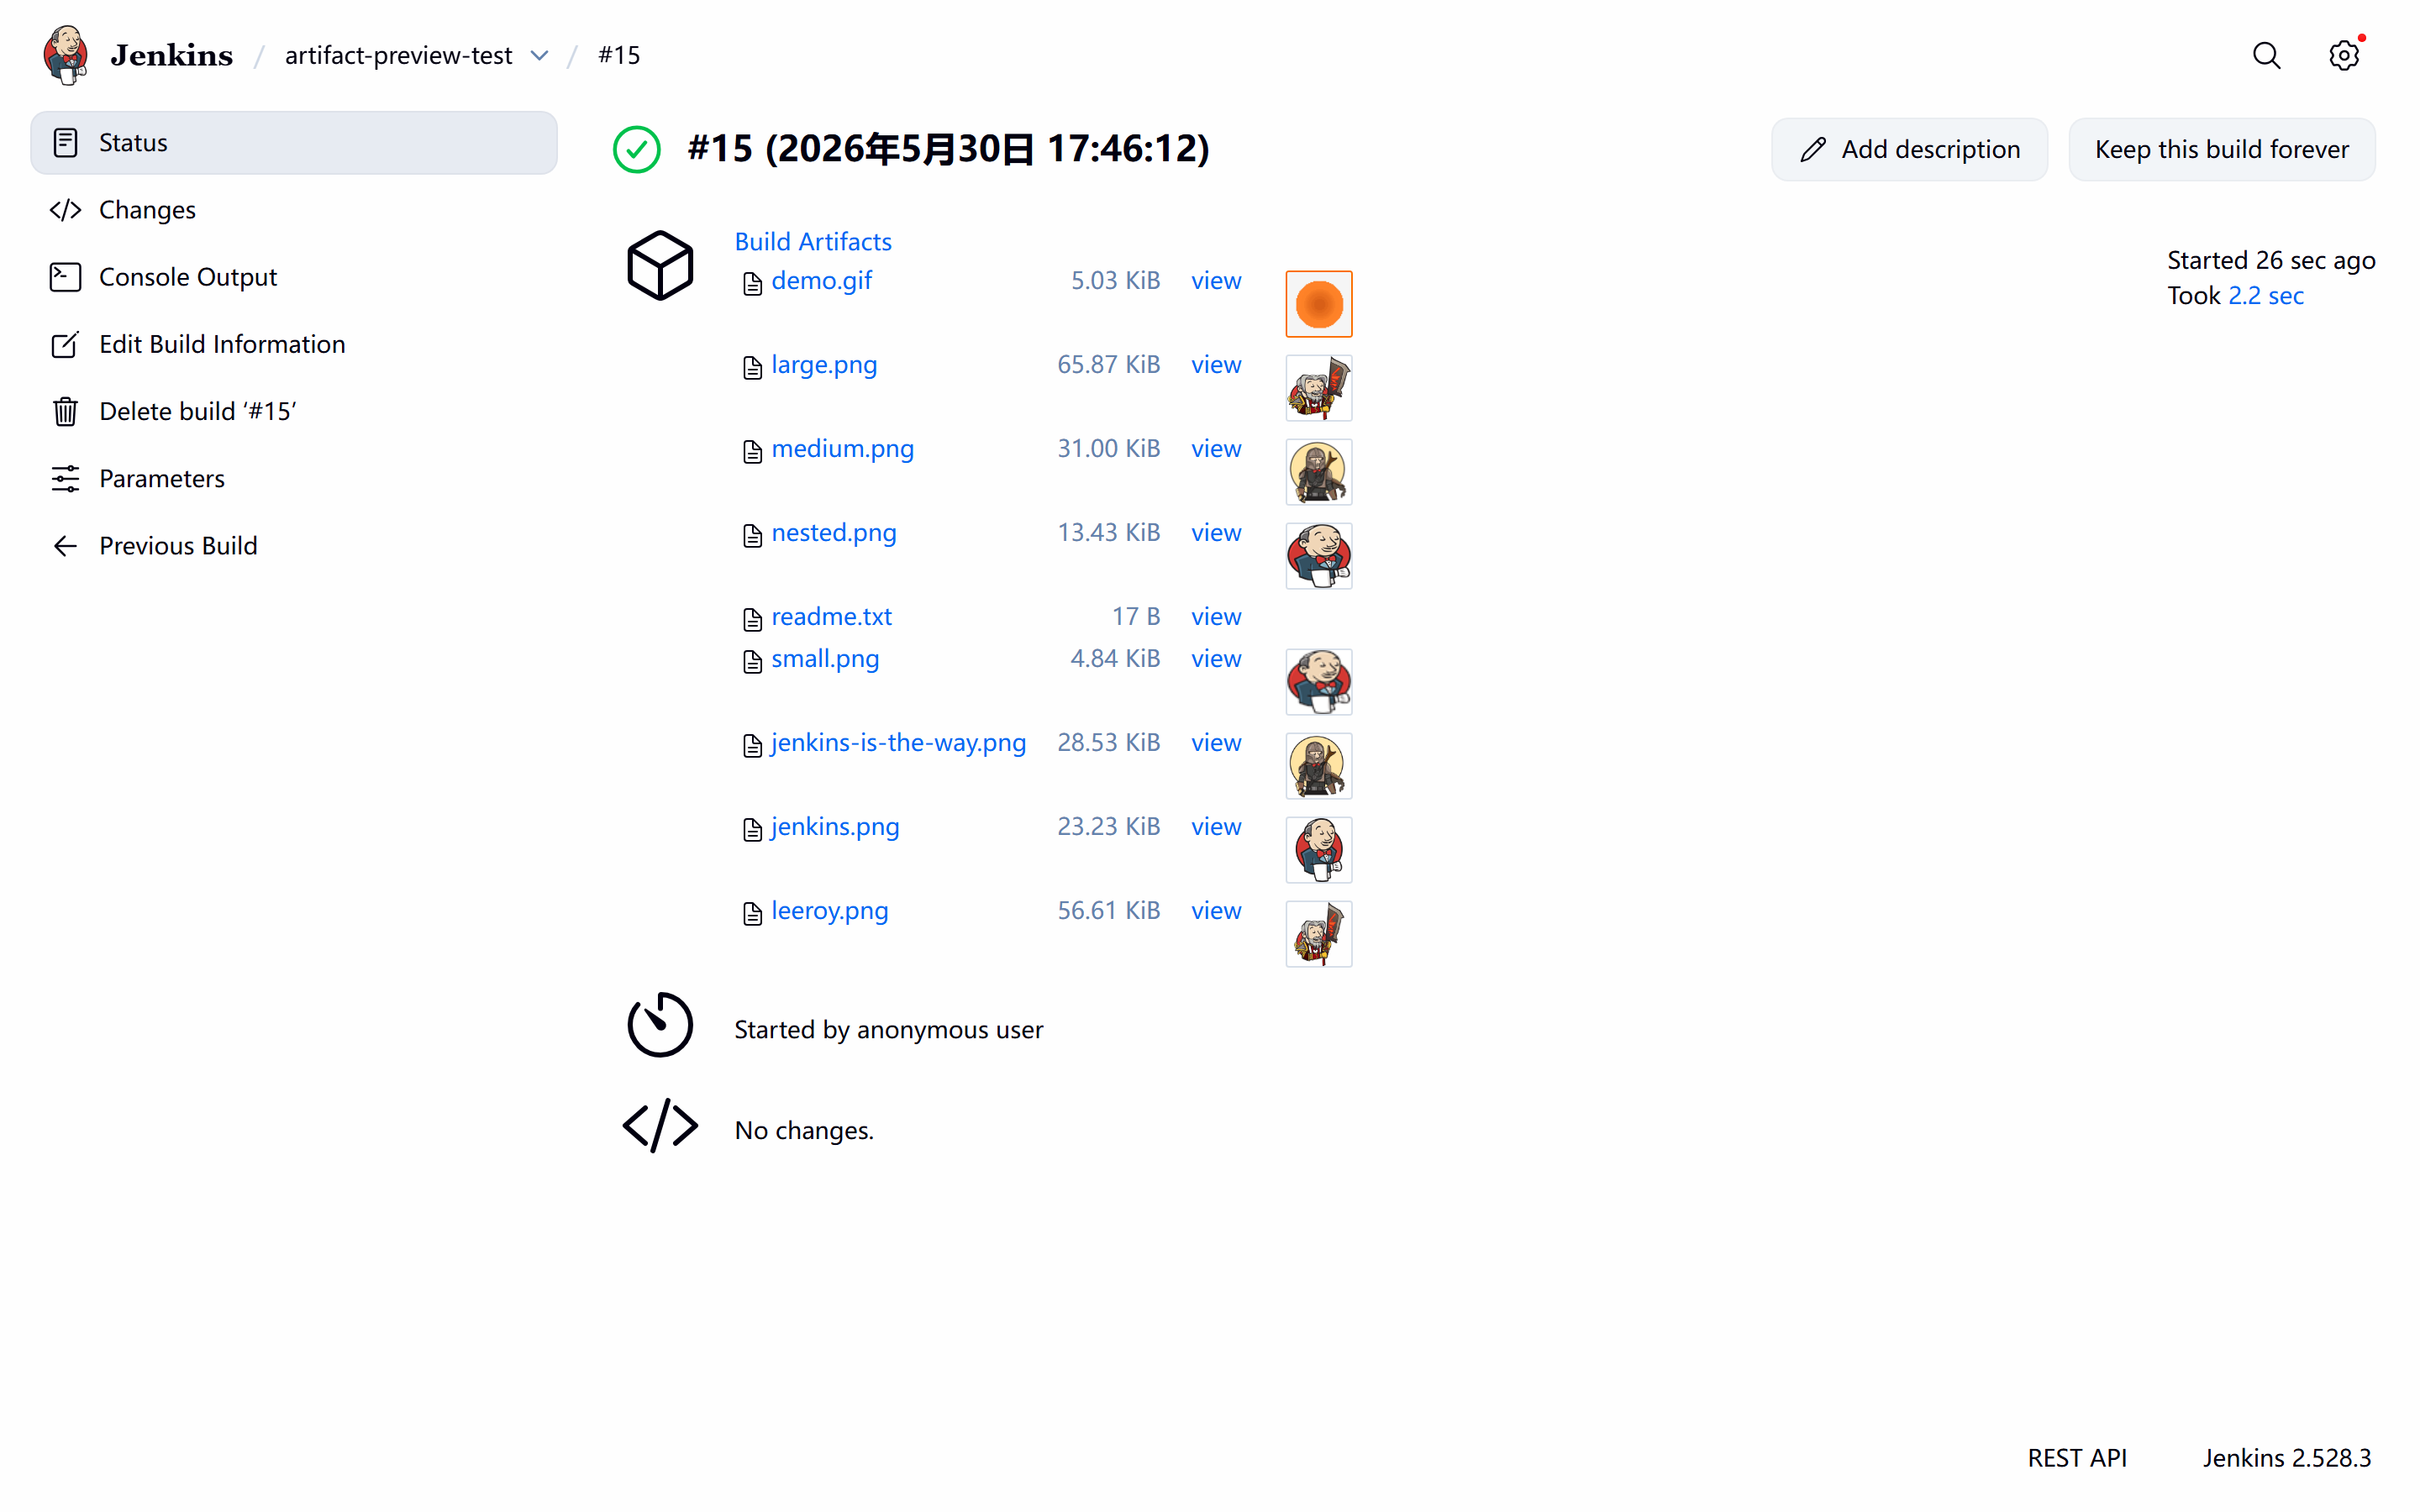
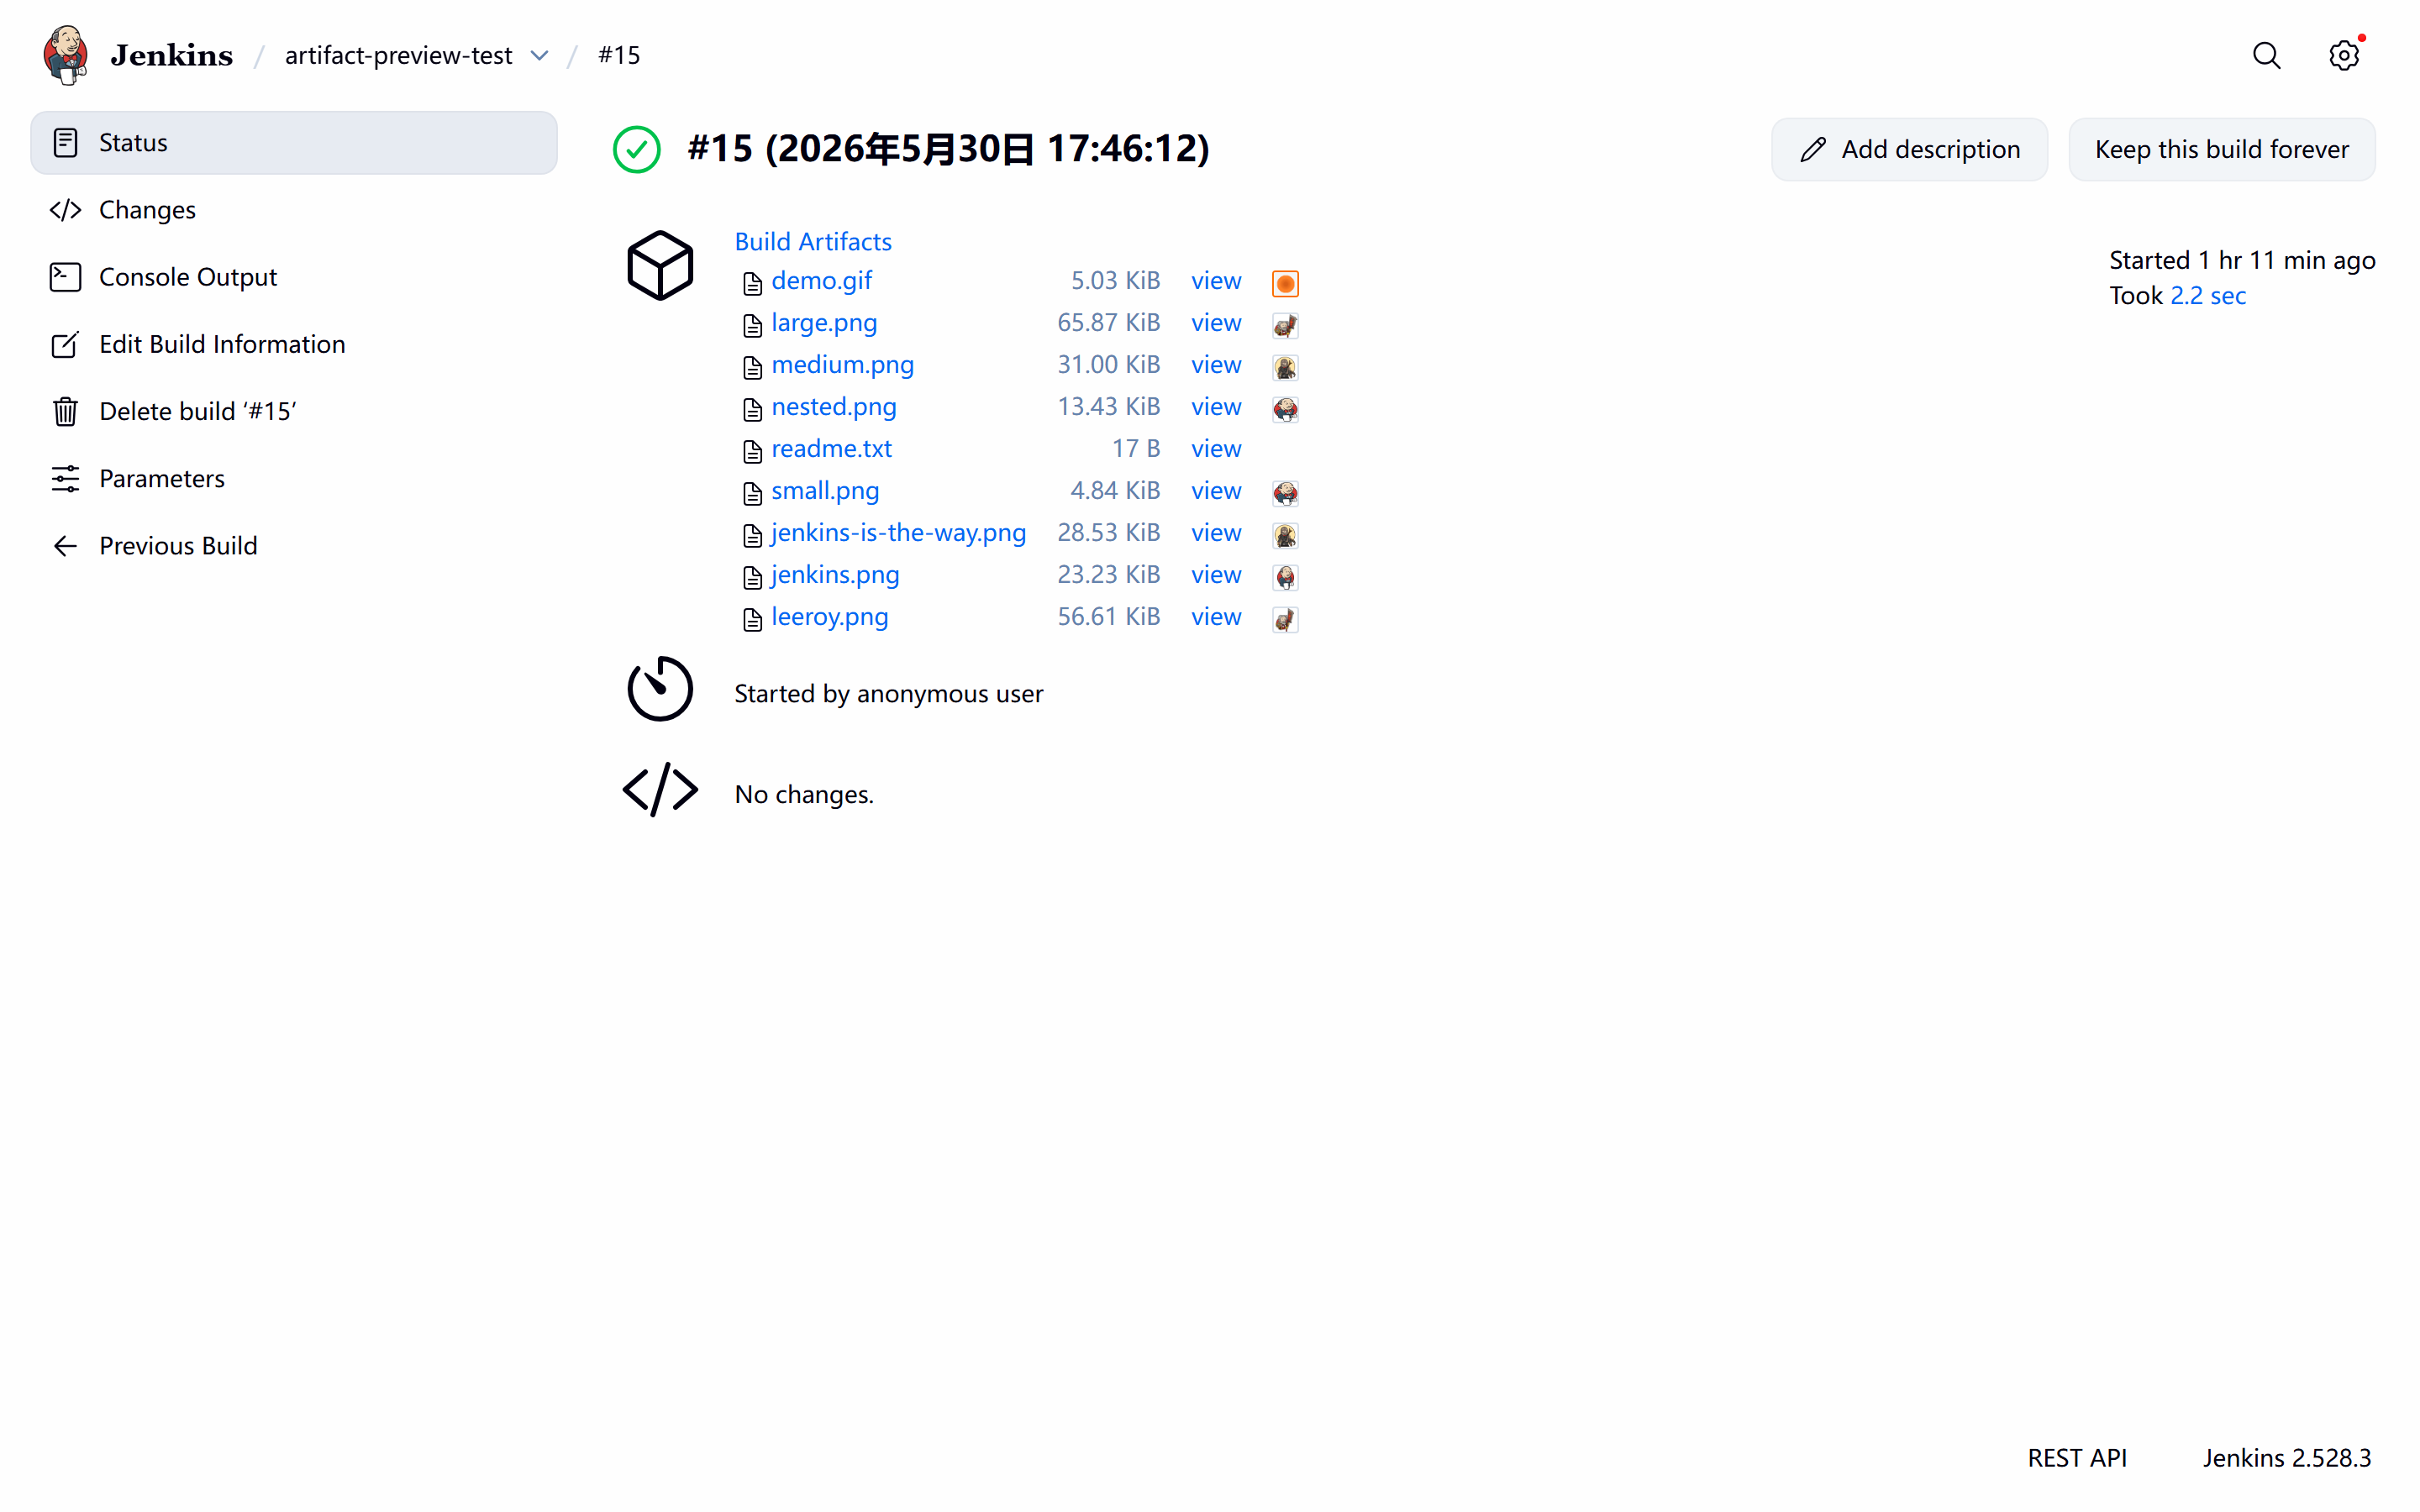
Regenerate README docs at actual plugin thumbnail size and simplify screenshot set.
Replace oversized capture overrides that broke row height; use build static, job hover, dark build hover, and one demo GIF.

diff --git a/README.md b/README.md
@@ -1,42 +1,42 @@
-# Artifact Image Preview Plugin for Jenkins
-
-[![Jenkins Plugin](https://img.shields.io/badge/Jenkins-Plugin-blue)](https://plugins.jenkins.io/artifact-image-preview)
-[![License: MIT](https://img.shields.io/badge/License-MIT-yellow.svg)](LICENSE)
-
-[中文文档](README_zh.md)
-
-Image artifact thumbnails and hover-to-zoom preview on job and build pages. Install and use — no configuration.
-
-## Demo
-
-![Hover Preview Demo](docs/demo-hover-preview.gif)
-
-## Features
-
-- Thumbnails on job page (*Last Successful Artifacts*) and build page (*Build Artifacts*)
-- Hover a thumbnail for a large popup preview
-- GIF files: orange border, **GIF** badge, auto-play in popup
-- Click a thumbnail to open the full image in a new tab
-- PNG, JPG/JPEG, GIF, WebP, BMP
-
-## Screenshots
-
-| Build Page | Job Page (Hover) | GIF (Hover) |
-|:---:|:---:|:---:|
-| ![Build page](docs/screenshot-build-page.png) | ![Job page hover](docs/screenshot-job-hover.png) | ![GIF hover](docs/screenshot-gif-hover.png) |
-
-## Install
-
-Upload `artifact-image-preview.hpi` via **Manage Jenkins → Plugins → Advanced → Upload Plugin**, then restart.
-
-Requires Jenkins 2.440.3+.
-
-Build from source:
-
-```bash
-mvn clean package -DskipTests
-```
-
-## License
-
-[MIT](LICENSE)
+# Artifact Image Preview Plugin for Jenkins
+
+[![Jenkins Plugin](https://img.shields.io/badge/Jenkins-Plugin-blue)](https://plugins.jenkins.io/artifact-image-preview)
+[![License: MIT](https://img.shields.io/badge/License-MIT-yellow.svg)](LICENSE)
+
+[中文文档](README_zh.md)
+
+Image artifact thumbnails and hover-to-zoom preview on job and build pages. Install and use — no configuration.
+
+## Demo
+
+![Hover Preview Demo](docs/demo-hover-preview.gif)
+
+## Features
+
+- Thumbnails on job page (*Last Successful Artifacts*) and build page (*Build Artifacts*)
+- Hover a thumbnail for a large popup preview
+- GIF files: orange border, **GIF** badge, auto-play in popup
+- Click a thumbnail to open the full image in a new tab
+- PNG, JPG/JPEG, GIF, WebP, BMP
+
+## Screenshots
+
+| Build Page | Job Page (Hover) | Build Page (Hover, Dark) |
+|:---:|:---:|:---:|
+| ![Build page](docs/screenshot-build-page.png) | ![Job page hover](docs/screenshot-job-hover.png) | ![Build page hover dark](docs/screenshot-build-hover-dark.png) |
+
+## Install
+
+Upload `artifact-image-preview.hpi` via **Manage Jenkins → Plugins → Advanced → Upload Plugin**, then restart.
+
+Requires Jenkins 2.440.3+.
+
+Build from source:
+
+```bash
+mvn clean package -DskipTests
+```
+
+## License
+
+[MIT](LICENSE)

diff --git a/README_zh.md b/README_zh.md
@@ -1,42 +1,42 @@
-# Jenkins 图片 Artifact 预览插件
-
-[![Jenkins Plugin](https://img.shields.io/badge/Jenkins-Plugin-blue)](https://plugins.jenkins.io/artifact-image-preview)
-[![License: MIT](https://img.shields.io/badge/License-MIT-yellow.svg)](LICENSE)
-
-[English](README.md)
-
-在任务页和构建页为图片 Artifact 显示缩略图，悬停放大预览。安装即用，无需配置。
-
-## 演示
-
-![悬停预览演示](docs/demo-hover-preview.gif)
-
-## 功能
-
-- 任务页（*Last Successful Artifacts*）与构建页（*Build Artifacts*）显示缩略图
-- 悬停缩略图弹出大图预览
-- GIF 文件：橙色边框、**GIF** 标签、弹窗内自动播放
-- 点击缩略图在新标签页打开原图
-- 支持 PNG、JPG/JPEG、GIF、WebP、BMP
-
-## 截图
-
-| 构建页面 | 任务页面（悬停） | GIF（悬停） |
-|:---:|:---:|:---:|
-| ![构建页面](docs/screenshot-build-page.png) | ![任务页悬停](docs/screenshot-job-hover.png) | ![GIF 悬停](docs/screenshot-gif-hover.png) |
-
-## 安装
-
-通过 **Manage Jenkins → Plugins → Advanced → Upload Plugin** 上传 `artifact-image-preview.hpi`，然后重启 Jenkins。
-
-需要 Jenkins 2.440.3+。
-
-从源码构建：
-
-```bash
-mvn clean package -DskipTests
-```
-
-## 许可证
-
-[MIT](LICENSE)
+# Jenkins 图片 Artifact 预览插件
+
+[![Jenkins Plugin](https://img.shields.io/badge/Jenkins-Plugin-blue)](https://plugins.jenkins.io/artifact-image-preview)
+[![License: MIT](https://img.shields.io/badge/License-MIT-yellow.svg)](LICENSE)
+
+[English](README.md)
+
+在任务页和构建页为图片 Artifact 显示缩略图，悬停放大预览。安装即用，无需配置。
+
+## 演示
+
+![悬停预览演示](docs/demo-hover-preview.gif)
+
+## 功能
+
+- 任务页（*Last Successful Artifacts*）与构建页（*Build Artifacts*）显示缩略图
+- 悬停缩略图弹出大图预览
+- GIF 文件：橙色边框、**GIF** 标签、弹窗内自动播放
+- 点击缩略图在新标签页打开原图
+- 支持 PNG、JPG/JPEG、GIF、WebP、BMP
+
+## 截图
+
+| 构建页面 | 任务页面（悬停） | 构建页面（悬停，暗色） |
+|:---:|:---:|:---:|
+| ![构建页面](docs/screenshot-build-page.png) | ![任务页悬停](docs/screenshot-job-hover.png) | ![构建页悬停暗色](docs/screenshot-build-hover-dark.png) |
+
+## 安装
+
+通过 **Manage Jenkins → Plugins → Advanced → Upload Plugin** 上传 `artifact-image-preview.hpi`，然后重启 Jenkins。
+
+需要 Jenkins 2.440.3+。
+
+从源码构建：
+
+```bash
+mvn clean package -DskipTests
+```
+
+## 许可证
+
+[MIT](LICENSE)